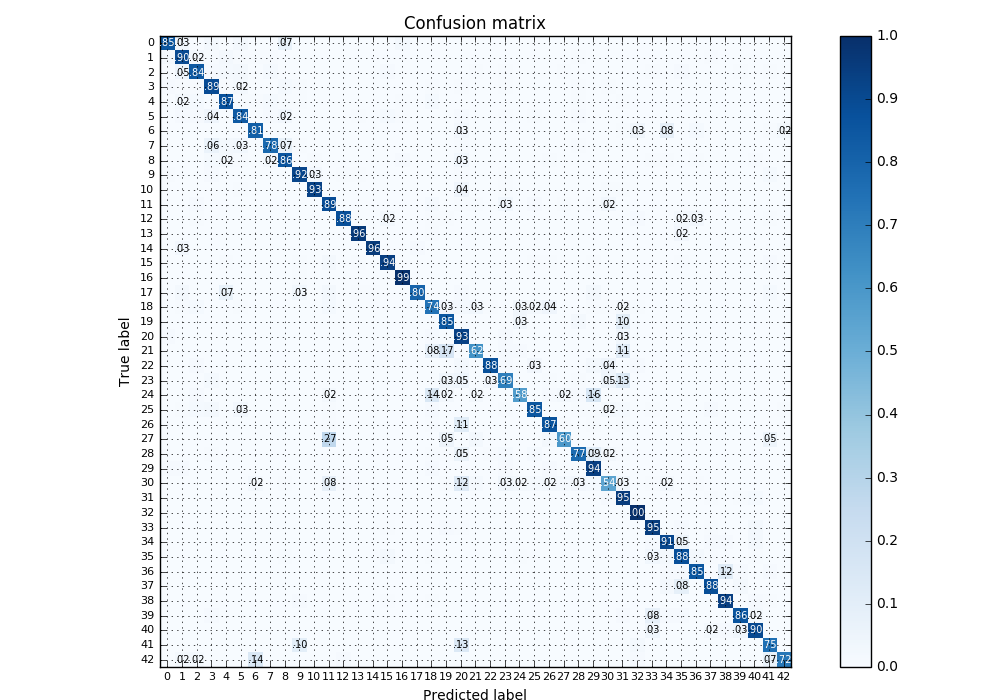
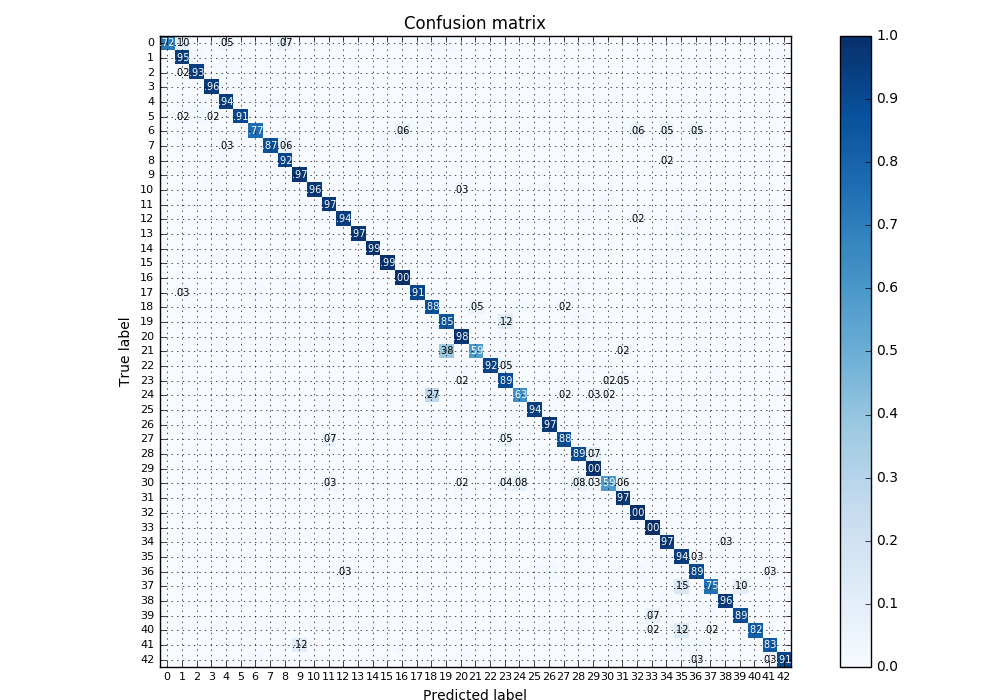
Readme update

diff --git a/README.md b/README.md
@@ -2,15 +2,15 @@
 [![Udacity - Self-Driving Car NanoDegree](https://s3.amazonaws.com/udacity-sdc/github/shield-carnd.svg)](http://www.udacity.com/drive)
 
 Perception related projects of Udacity's Self-driving Car Nanodegree Program. 
-* [Lane Line Finding](https://github.com/Hayoung-Kim/Perception-for-Self-driving/tree/master/CarND-Advanced-Lane-Lines)
-* [Vehicle Detection](https://github.com/Hayoung-Kim/Perception-for-Self-driving/tree/master/CarND-Vehicle-Detection-P5)
-* [Traffic Sign Classification]()
+* [Lane Line Finding](./Lane-Line-Finding/)
+* [Vehicle Detection](./Vehicle-Detection/)
+* [Traffic Sign Classification](./Traffic-Sign-Classifier/)
 
 
 Summary
 ---
 ### Lane Line Finding
-[Lane Line Finding](https://github.com/Hayoung-Kim/Perception-for-Self-driving/tree/master/CarND-Advanced-Lane-Lines)에서는 Camera Calibration, Color Thresholding, Gradient Thresholding and Image Wraping등의 전통적인 Computer Vision 테크닉을 이용하여 Lane Line을 찾습니다. 영상에서 찾아진 Lane Line은 Bird eye view로 변환된 영상의 pixel 좌표에서 meter 좌표로 변환되어, 현재 차량의 CTE(Cross Track Error), 도로의 Curvature을 구합니다.
+[Lane Line Finding](./Lane-Line-Finding/)에서는 Camera Calibration, Color Thresholding, Gradient Thresholding and Image Wraping등의 전통적인 Computer Vision 테크닉을 이용하여 Lane Line을 찾습니다. 영상에서 찾아진 Lane Line은 `Bird eye view`로 변환된 영상을 pixel 단위에서 meter 단위로 변환하여, 현재 차량의 `CTE(Cross Track Error)`, 도로의 `Curvature`을 구합니다.
 
 <p align="center">
   <img src="./Lane-Line-Finding/img/output_video_try2.gif">
@@ -18,7 +18,7 @@ Summary
 
 
 ### Vehicle Detection
-[Vehicle Detection](https://github.com/Hayoung-Kim/Perception-for-Self-driving/tree/master/CarND-Vehicle-Detection-P5)에서는 Vehicle과 non-Vehicle을 구분할 수 있는 SVM Classifier를 학습시킨 뒤, Sliding window 방법을 이용하여 영상에서 차량의 위치를 검출합니다. Multi-detection과 False Positive 문제를 해결하기 위하여 이전 프레임 및 현재 프레임의 정보를 이용하여 Heat-map을 구축한 뒤 최종적으로 차량의 위치를 판단 할 수 있도록 알고리즘을 구성하였습니다.
+[Vehicle Detection](./Vehicle-Detection/)에서는 Vehicle과 non-Vehicle을 구분할 수 있는 `SVM` Classifier를 학습시킨 뒤, `Sliding window` 방법을 이용하여 영상에서 차량의 위치를 검출합니다. Multi-detection과 False Positive 문제를 해결하기 위하여 이전 프레임 및 현재 프레임의 정보를 이용하여 `Heat-map`을 구축한 뒤 최종적으로 차량의 위치를 판단 할 수 있도록 알고리즘을 구성하였습니다.
 
 <p align="center">
   <img src="./Vehicle-Detection/imgs/output_video.gif">
@@ -26,6 +26,11 @@ Summary
 
 
 ### Traffic Sign Classification
-[Traffic Sign Classification]()에서는 CNN(Convolutional Neural Network)를 이용하여 43종류의 표지판을 구분해 내는 Classifier를 설계했습니다. [LeNet](http://yann.lecun.com/exdb/lenet/)을 Retrain시킨 결과, Test accuracy 92.6%로 43종류의 표지판을 구분해 낼 수 있었습니다.
+[Traffic Sign Classification](./Traffic-Sign-Classifier/)에서는 CNN(Convolutional Neural Network)를 이용하여 43종류의 표지판을 구분해 내는 Classifier를 설계했습니다. [LeNet](http://yann.lecun.com/exdb/lenet/)을 Retrain시킨 결과, Test accuracy 93.5%로 43종류의 표지판을 구분해 낼 수 있었습니다.
 
-
+<p align="center">
+  <img src="./Traffic-Sign-Classifier/images/convnet_fig.png">
+</p>
+<p align="center">
+  <img src="./Traffic-Sign-Classifier/images/confusion_matrix.png">
+</p>
